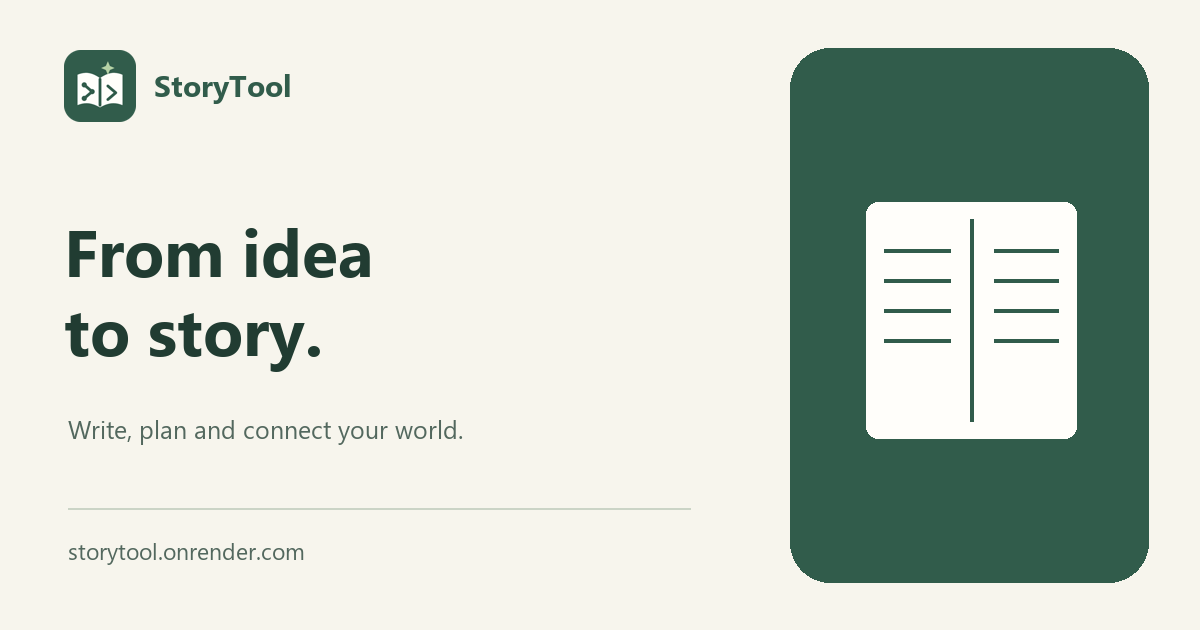
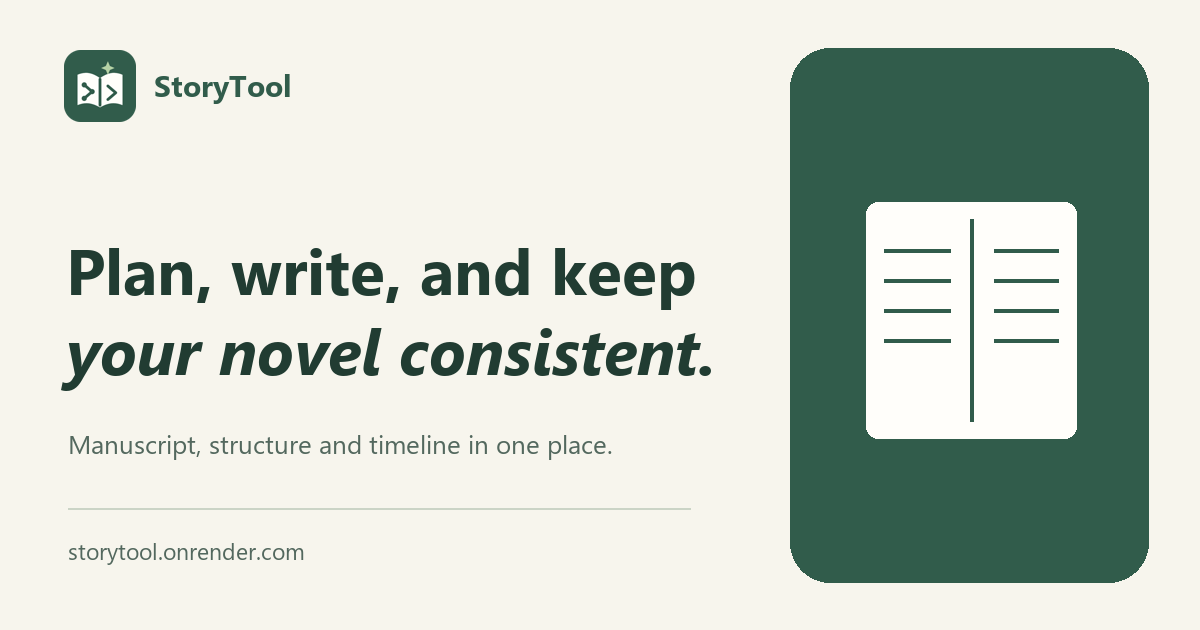
Link previews and tab title use the homepage headline; roadmap delivered descriptions start with a capital

Changed region(s): [[0.0308, 0.3619, 0.6167, 0.6032], [0.0617, 0.6635, 0.5242, 0.7238], [0.0308, 0.6032, 0.0617, 0.6333]]

diff --git a/web/src/App.tsx b/web/src/App.tsx
@@ -32,7 +32,7 @@ const TryLocked = lazy(() => import('./pages/TryStory').then(m => ({ default: m.
 
 // Browser tab titles by route; story pages refine theirs once the story's title loads.
 const PAGE_TITLES: [RegExp, string][] = [
-  [/^\/$/, tx('StoryTool — From idea to story')], [/^\/try/, tx('Try StoryTool')], [/^\/how-to-use/, tx('How to use · StoryTool')],
+  [/^\/$/, tx('StoryTool — Plan, write, and keep your novel consistent')], [/^\/try/, tx('Try StoryTool')], [/^\/how-to-use/, tx('How to use · StoryTool')],
   [/^\/roadmap/, tx('Roadmap · StoryTool')], [/^\/thanks/, tx('Shoutouts · StoryTool')], [/^\/about/, tx('About the developer · StoryTool')], [/^\/pricing/, tx('Pricing · StoryTool')],
   [/^\/privacy/, tx('Privacy · StoryTool')], [/^\/library/, tx('Your stories · StoryTool')], [/^\/settings/, tx('Settings · StoryTool')],
   [/^\/checks/, tx('Writing checks · StoryTool')], [/^\/feedback/, tx('Feedback · StoryTool')], [/^\/oauth/, tx('Connect AI · StoryTool')],

diff --git a/web/src/pages/Roadmap.tsx b/web/src/pages/Roadmap.tsx
@@ -89,7 +89,7 @@ export default function Roadmap() {
           <p className="text-xs font-semibold uppercase tracking-widest text-slate-500 dark:text-slate-400">{dayLabel(day)}</p>
           <ul className="mt-2 space-y-2">{items.filter(item => item.status === 'delivered' && item.delivered_on === day).map(item => <li key={item.id} className="text-sm leading-6">
             <span className={item.hero ? 'rounded-full px-2 py-0.5 font-semibold ring-1 ring-emerald-400 dark:ring-emerald-600' : 'font-semibold'}>{item.title}</span>
-            <span className="text-slate-600 dark:text-slate-300"> — {item.description}</span>{editButton(item)}
+            <span className="text-slate-600 dark:text-slate-300"> — {item.description.charAt(0).toUpperCase() + item.description.slice(1)}</span>{editButton(item)}
             {editing === item.id && editor}
           </li>)}</ul>
         </li>)}</ol>

diff --git a/web/index.html b/web/index.html
@@ -8,8 +8,8 @@
     <meta name="theme-color" content="#315c4b" />
     <meta name="viewport" content="width=device-width, initial-scale=1.0" />
     <meta name="referrer" content="no-referrer" />
-    <meta name="description" content="Build your fiction from premise to prose. Connect characters, beats, arcs, and timelines in one writing workspace." />
-    <title>StoryTool — From idea to story</title>
+    <meta name="description" content="Your manuscript, its structure and its timeline in one place, with the AI you already use or none at all." />
+    <title>StoryTool — Plan, write, and keep your novel consistent</title>
     <script>
       try {
         var savedTheme = localStorage.getItem('storytool-theme');

diff --git a/api/src/storytool/social_preview.py b/api/src/storytool/social_preview.py
@@ -16,7 +16,12 @@ from storytool.domain.story.models import Story
 from storytool.domain.story.showcase import StoryShowcase
 
 PAGES = {
-    "/": ("From idea to story", "Write, plan and connect your world.", "landing"),
+    "/": (
+        "Plan, write, and keep your novel consistent",
+        "Your manuscript, its structure and its timeline in one place, "
+        "with the AI you already use or none at all.",
+        "landing",
+    ),
     "/library": ("Your stories", "Your stories and writing workspace.", "stories"),
     "/roadmap": (
         "On the horizon",
